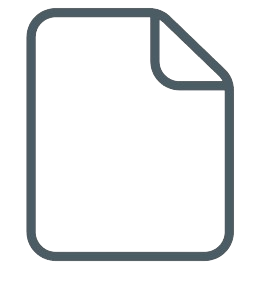
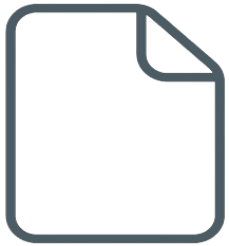
Ajust align images, androidManifest update to acess internet in real phone

Changed region(s): [[0.0, 0.0, 1.0, 0.9959]]

diff --git a/lib/models/farm_box_design.dart b/lib/models/farm_box_design.dart
@@ -28,19 +28,31 @@ class FarmBoxDesign extends StatelessWidget {
                     borderRadius: BorderRadius.circular(20))),
             child: Row(
               children: [
-                SizedBox(
-                  height: MediaQuery.of(context).size.height * 0.1,
-                  child: Image.asset(
-                    icon,
-                    fit: BoxFit.cover,
-                    color: const Color(0xFF4C5C65),
+                Padding(
+                  padding: EdgeInsets.fromLTRB(
+                      MediaQuery.of(context).size.width * 0.025,
+                      MediaQuery.of(context).size.height * 0.002,
+                      0,
+                      0),
+                  child: SizedBox(
+                    height: MediaQuery.of(context).size.height * 0.1,
+                    child: Image.asset(
+                      icon,
+                      fit: BoxFit.cover,
+                      color: const Color(0xFF4C5C65),
+                    ),
                   ),
                 ),
                 Expanded(
-                  child: Text(
-                    text,
-                    style: GoogleFonts.kanit(
-                        fontSize: MediaQuery.of(context).size.height * 0.0221),
+                  child: Padding(
+                    padding: EdgeInsets.only(
+                        left: MediaQuery.of(context).size.width * 0.1),
+                    child: Text(
+                      text,
+                      style: GoogleFonts.kanit(
+                          fontSize:
+                              MediaQuery.of(context).size.height * 0.0221),
+                    ),
                   ),
                 ),
               ],

diff --git a/lib/pages/teste_api.dart b/lib/pages/teste_api.dart
@@ -1,4 +1,5 @@
 import 'package:flutter/material.dart';
+import 'package:google_fonts/google_fonts.dart';
 import 'package:tryber/Services/api_service.dart';
 import 'package:tryber/Services/json_service.dart';
 import 'package:tryber/data/global_var.dart';
@@ -45,12 +46,12 @@ class _TesteApiState extends State<TesteApi> {
 
   void atualizarRacaoApi() {
     String url = urlController.text;
-    apiService = ApiService(url);
+    apiService = ApiService('http://$url:5001');
     String idBrinco = idBrincoController.text;
     String quantidade = novaQuantidadeController.text;
     for (final Animal in animals) {
       if (Animal.idBrinco == idBrinco) {
-        apiService.updateRacao('http://$url:5001', int.parse(quantidade));
+        apiService.updateRacao(idBrinco, int.parse(quantidade));
         widget.changePage('manage-picket');
       }
     }
@@ -72,6 +73,12 @@ class _TesteApiState extends State<TesteApi> {
                 color: Colors.black,
                 size: 30,
               )),
+        ),
+        SizedBox(height: MediaQuery.of(context).size.height * 0.15),
+        Text(
+          'ATUALIZAR RAÇÃO',
+          style:
+              GoogleFonts.kanit(color: const Color(0xFF2DBCB6), fontSize: 36),
         ),
         const SizedBox(height: 100),
         InputDesign(text: 'Id Brinco', controller: idBrincoController),

diff --git a/lib/pages/manage_picket.dart b/lib/pages/manage_picket.dart
@@ -72,8 +72,8 @@ class ManagePicket extends StatelessWidget {
                   action: () {
                     changeScreen('teste-api');
                   },
-                  icon: 'assets/images/link.png',
-                  text: 'VINCULAR ANIMAL'),
+                  icon: 'assets/images/update.png',
+                  text: 'ATUALIZAR RAÇÃO'),
             ],
           ),
         ),
